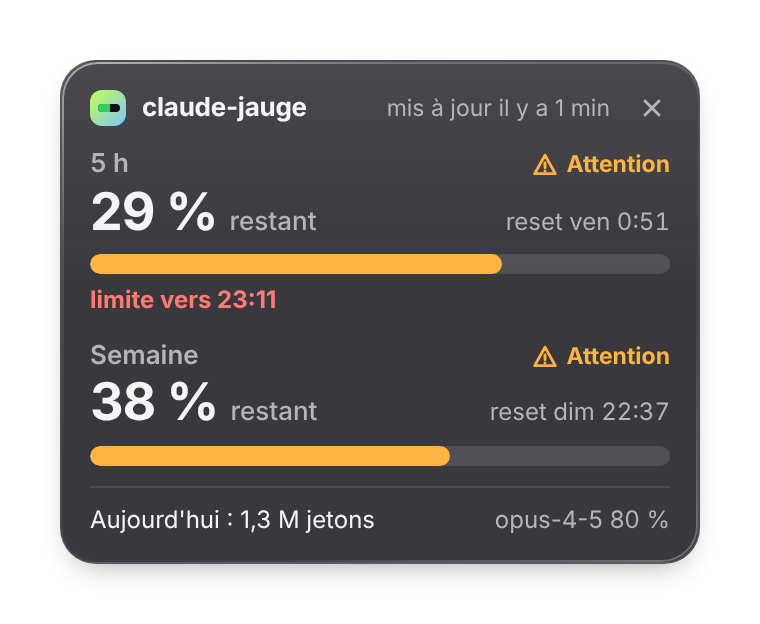
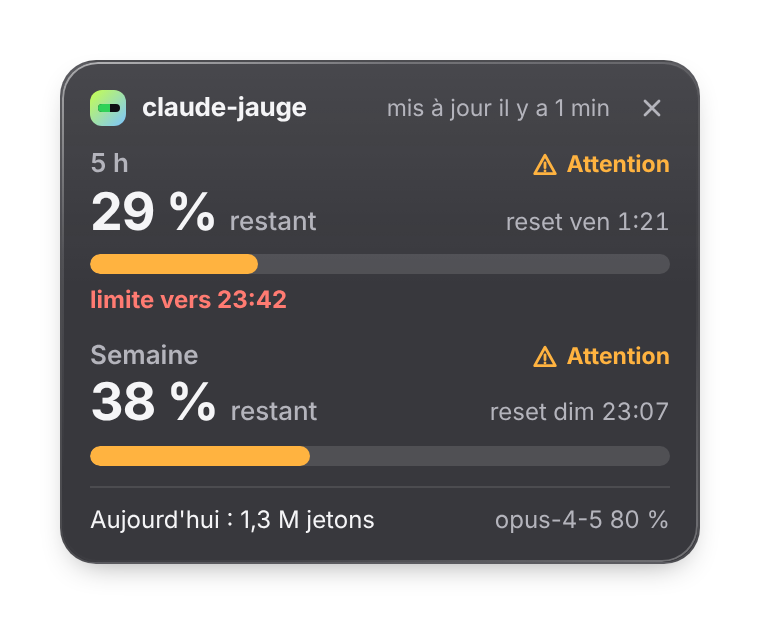
fix(widget): la barre montre le restant, comme le gros chiffre
Claude-Session: https://claude.ai/code/session_01LnQXzK5CjXdMPNAuP3vf6d

diff --git a/desktop/src/render.ts b/desktop/src/render.ts
@@ -18,6 +18,8 @@ export function esc(value: string): string {
 
 function gauge(w: WidgetWindow, lang: 'fr' | 'en'): string {
   const used = Math.min(100, Math.max(0, w.usedPct));
+  // Like a fuel gauge: the bar shows what is left, same as the big number, and drains as you use Claude.
+  const left = 100 - used;
   return `<section class="gauge" style="--lv:var(--${w.level})">
   <div class="row">
     <span class="label">${esc(w.label)}</span>
@@ -27,8 +29,8 @@ function gauge(w: WidgetWindow, lang: 'fr' | 'en'): string {
     <span class="big">${esc(w.leftText)}</span><span class="left">${LEFT[lang]}</span>
     <span class="reset">${esc(w.resetText)}</span>
   </div>
-  <div class="track" role="progressbar" aria-label="${esc(w.label)}" aria-valuemin="0" aria-valuemax="100" aria-valuenow="${Math.round(used)}">
-    <div class="fill" style="width:${used}%"></div>
+  <div class="track" role="progressbar" aria-label="${esc(w.label)}" aria-valuemin="0" aria-valuemax="100" aria-valuenow="${Math.round(left)}" aria-valuetext="${esc(w.leftText)} ${LEFT[lang]}">
+    <div class="fill" style="width:${left}%"></div>
   </div>
   ${w.alertText ? `<div class="alert">${esc(w.alertText)}</div>` : ''}
 </section>`;
